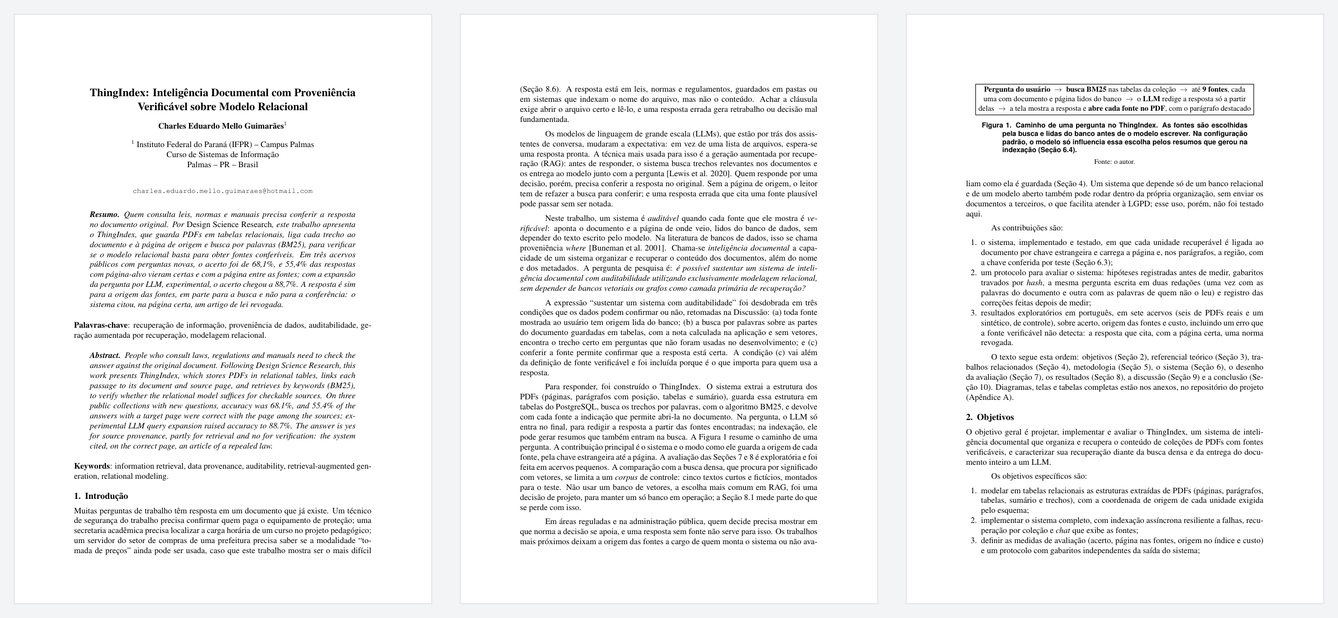
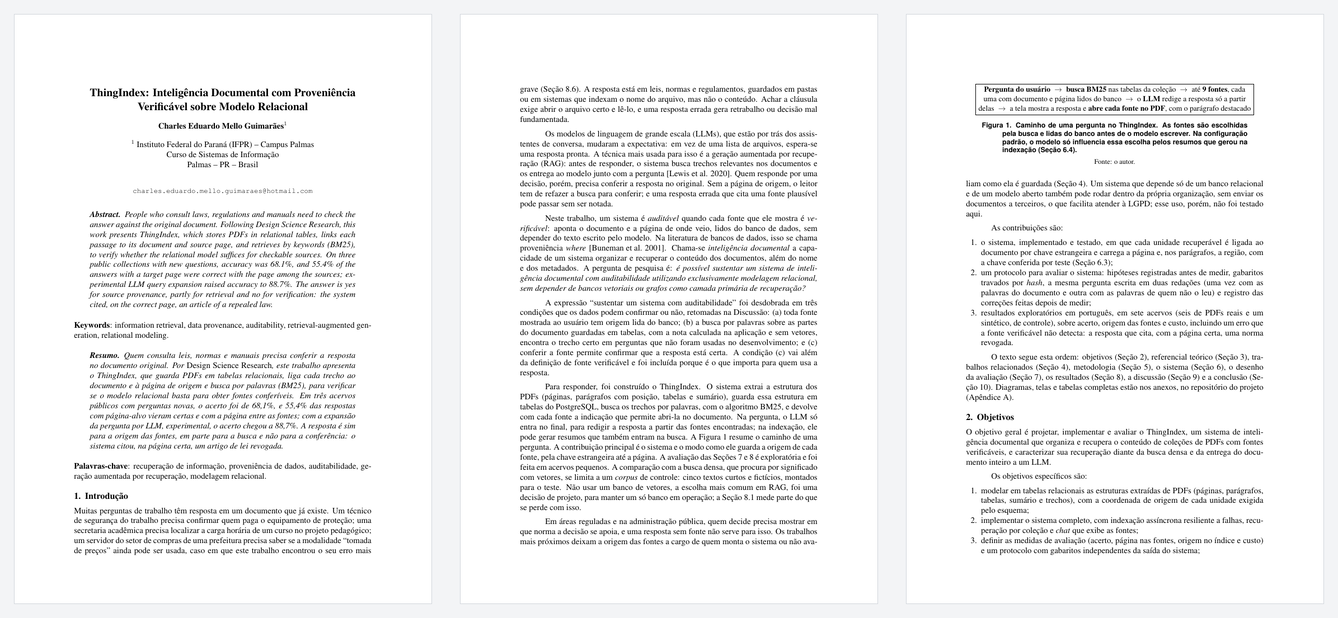
docs(artigo): abstract antes do resumo, como no modelo da SBC, e ajustes de clareza
Corrige a introducao, que chamava a tomada de precos de caso mais dificil
(e o erro mais grave; a forma mais dificil foi a premissa falsa), e deixa
mais claros a expansao desligada por padrao, os dois capitulos XVI do
edital e a origem completa em C1. No README, o modelo influencia a busca
pelos resumos da indexacao.

Changed region(s): [[0.0613, 0.3382, 0.2758, 0.7994], [0.3984, 0.123, 0.6129, 0.1845], [0.0613, 0.8608, 0.2758, 0.9223]]

diff --git a/docs/article/artigo.tex b/docs/article/artigo.tex
@@ -98,19 +98,19 @@
 
 \maketitle
 
-\selectlanguage{brazil}
-\begin{resumo}
-Quem consulta leis, normas e manuais precisa conferir a resposta no documento original. Por \emph{Design Science Research}, este trabalho apresenta o ThingIndex, que guarda PDFs em tabelas relacionais, liga cada trecho ao documento e à página de origem e busca por palavras (BM25), para verificar se o modelo relacional basta para obter fontes conferíveis. Em três acervos públicos com perguntas novas, o acerto foi de 68,1\%, e 55,4\% das respostas com página-alvo vieram certas e com a página entre as fontes; com a expansão da pergunta por LLM, experimental, o acerto chegou a 88,7\%. A resposta é sim para a origem das fontes, em parte para a busca e não para a conferência: o sistema citou, na página certa, um artigo de lei revogada.
-\end{resumo}
-
-\noindent\textbf{Palavras-chave}: recuperação de informação, proveniência de dados, auditabilidade, geração aumentada por recuperação, modelagem relacional.
-
 \selectlanguage{english}
 \begin{abstract}
 People who consult laws, regulations and manuals need to check the answer against the original document. Following Design Science Research, this work presents ThingIndex, which stores PDFs in relational tables, links each passage to its document and source page, and retrieves by keywords (BM25), to verify whether the relational model suffices for checkable sources. On three public collections with new questions, accuracy was 68.1\%, and 55.4\% of the answers with a target page were correct with the page among the sources; experimental LLM query expansion raised accuracy to 88.7\%. The answer is yes for source provenance, partly for retrieval and no for verification: the system cited, on the correct page, an article of a repealed law.
 \end{abstract}
 
 \noindent\textbf{Keywords}: information retrieval, data provenance, auditability, retrieval-augmented generation, relational modeling.
+
+\selectlanguage{brazil}
+\begin{resumo}
+Quem consulta leis, normas e manuais precisa conferir a resposta no documento original. Por \emph{Design Science Research}, este trabalho apresenta o ThingIndex, que guarda PDFs em tabelas relacionais, liga cada trecho ao documento e à página de origem e busca por palavras (BM25), para verificar se o modelo relacional basta para obter fontes conferíveis. Em três acervos públicos com perguntas novas, o acerto foi de 68,1\%, e 55,4\% das respostas com página-alvo vieram certas e com a página entre as fontes; com a expansão da pergunta por LLM, experimental, o acerto chegou a 88,7\%. A resposta é sim para a origem das fontes, em parte para a busca e não para a conferência: o sistema citou, na página certa, um artigo de lei revogada.
+\end{resumo}
+
+\noindent\textbf{Palavras-chave}: recuperação de informação, proveniência de dados, auditabilidade, geração aumentada por recuperação, modelagem relacional.
 
 \selectlanguage{brazil}
 
@@ -120,7 +120,7 @@ People who consult laws, regulations and manuals need to check the answer agains
 \section{Introdução}
 \label{sec:introducao}
 
-Muitas perguntas de trabalho têm resposta em um documento que já existe. Um técnico de segurança do trabalho precisa confirmar quem paga o equipamento de proteção; uma secretaria acadêmica precisa localizar a carga horária de um curso no projeto pedagógico; um servidor do setor de compras de uma prefeitura precisa saber se a modalidade ``tomada de preços'' ainda pode ser usada, caso que este trabalho mostra ser o mais difícil (Seção~\ref{sec:res-legislacao}). A resposta está em leis, normas e regulamentos, guardados em pastas ou em sistemas que indexam o nome do arquivo, mas não o conteúdo. Achar a cláusula exige abrir o arquivo certo e lê-lo, e uma resposta errada gera retrabalho ou decisão mal fundamentada.
+Muitas perguntas de trabalho têm resposta em um documento que já existe. Um técnico de segurança do trabalho precisa confirmar quem paga o equipamento de proteção; uma secretaria acadêmica precisa localizar a carga horária de um curso no projeto pedagógico; um servidor do setor de compras de uma prefeitura precisa saber se a modalidade ``tomada de preços'' ainda pode ser usada, caso em que este trabalho encontrou o seu erro mais grave (Seção~\ref{sec:res-legislacao}). A resposta está em leis, normas e regulamentos, guardados em pastas ou em sistemas que indexam o nome do arquivo, mas não o conteúdo. Achar a cláusula exige abrir o arquivo certo e lê-lo, e uma resposta errada gera retrabalho ou decisão mal fundamentada.
 
 Os modelos de linguagem de grande escala (LLMs), que estão por trás dos assistentes de conversa, mudaram a expectativa: em vez de uma lista de arquivos, espera-se uma resposta pronta. A técnica mais usada para isso é a geração aumentada por recuperação (RAG): antes de responder, o sistema busca trechos relevantes nos documentos e os entrega ao modelo junto com a pergunta~\cite{lewis2020rag}. Quem responde por uma decisão, porém, precisa conferir a resposta no original. Sem a página de origem, o leitor tem de refazer a busca para conferir; e uma resposta errada que cita uma fonte plausível pode passar sem ser notada.
 
@@ -398,9 +398,9 @@ Segundo, as unidades recebem nota por BM25 ($k_1 = 1{,}2$; $b = 0{,}75$), com ac
 
 Terceiro, o sistema seleciona até três linhas de tabela e até seis fontes entre seções e páginas, com no máximo três seções, isto é, até nove fontes por resposta. A nota dos trechos não gera fonte: ela só ajuda a escolher o documento. Empates na nota são desfeitos pelo documento e, dentro dele, pelo número da página ou pelo identificador da seção, e as linhas de tabela empatadas mantêm a ordem de leitura; assim, a ordem é sempre a mesma para o mesmo índice. Por fim, as fontes são reordenadas pelo número de termos da pergunta que cada uma contém, mantendo a ordem anterior nos empates; uma linha de tabela só fica na frente quando contém pelo menos metade desses termos.
 
-O banco guarda as unidades e a origem de cada uma; a nota BM25 é calculada pela API, a cada pergunta, sobre as unidades carregadas, sem um índice de busca guardado à parte. O índice de texto do próprio PostgreSQL não foi usado para a nota: sua função de ordenação, o \texttt{ts\_rank}, não considera a raridade da palavra na coleção, que é parte do BM25. O tempo de cálculo cresce com o tamanho da coleção e não foi medido em separado; nas coleções usadas, de até 10 documentos, ele não impediu os experimentos. Para acervos maiores, o índice de texto do próprio PostgreSQL fica como trabalho futuro.
+O banco guarda as unidades e a origem de cada uma; a nota BM25 é calculada pela API, a cada pergunta, sobre as unidades carregadas, sem um índice de busca guardado à parte. O índice de texto do próprio PostgreSQL não foi usado para a nota: sua função de ordenação, o \texttt{ts\_rank}, não considera a raridade da palavra na coleção, que é parte do BM25. O tempo de cálculo cresce com o tamanho da coleção e não foi medido em separado; nas coleções usadas, de até 10 documentos, ele não impediu os experimentos. Para acervos maiores, fica como trabalho futuro usar o índice de texto do PostgreSQL para filtrar os candidatos, mantendo o BM25 na nota.
 
-As fontes selecionadas são enviadas à tela antes da resposta e, em seguida, entram no \emph{prompt} do modelo, com a instrução de responder apenas a partir delas e de dizer quando a informação não consta. De cada fonte, vai ao modelo a linha de tabela ou o texto da página, cortado em 4.000 caracteres, até um total de 24.000 caracteres; as fontes que passam desse total entram só com um trecho de 220 caracteres. Além das fontes, o \emph{prompt} leva uma lista de até seis documentos da coleção, com o resumo de cada um gerado na indexação, e as últimas mensagens da conversa, quando a tela as envia (nos experimentos, cada pergunta abriu uma conversa nova). Esse conteúdo não é fonte e não aparece como tal na tela. A expansão da pergunta (experimental; Seção~\ref{sec:res-expansao}) também existe no código.
+As fontes selecionadas são enviadas à tela antes da resposta e, em seguida, entram no \emph{prompt} do modelo, com a instrução de responder apenas a partir delas e de dizer quando a informação não consta. De cada fonte, vai ao modelo a linha de tabela ou o texto da página, cortado em 4.000 caracteres, até um total de 24.000 caracteres; as fontes que passam desse total entram só com um trecho de 220 caracteres. Além das fontes, o \emph{prompt} leva uma lista de até seis documentos da coleção, com o resumo de cada um gerado na indexação, e as últimas mensagens da conversa, quando a tela as envia (nos experimentos, cada pergunta abriu uma conversa nova). Esse conteúdo não é fonte e não aparece como tal na tela. A expansão da pergunta (Seção~\ref{sec:res-expansao}) existe no código, mas fica desligada por padrão e só foi ligada no experimento daquela seção.
 
 \subsection{Interface}
 \label{sec:interface}
@@ -539,7 +539,7 @@ Cada método de C1 foi executado 30 vezes: a contagem, o BM25, a combinação do
 \subsection{Origem das fontes no índice}
 \label{sec:res-auditabilidade}
 
-Na versão atual, as 155 unidades indexadas de C1 têm a origem completa. A primeira medição deu 51 de 155. A correção do sistema, que deu coluna de página aos trechos, levou a 70; a maior parte da diferença veio de ajustar a métrica, pois as 85 unidades de metadados, que descrevem o documento inteiro e não têm página, passaram a contar como origem completa. Os números estão no Anexo~A7, em porcentagem, e nas tabelas de apoio do Apêndice~A, em contagem. Como C1 não tem paginação, toda unidade fica na página 1: a medida mostra que a origem está gravada, não que a página esteja certa, o que é conferido por testes unitários e, indiretamente, pela página entre as fontes nas seções seguintes. Os 20 parágrafos extraídos de C1 aparecem, letra por letra, no documento de origem.
+Na versão atual, as 155 unidades indexadas de C1 têm a origem completa. A primeira medição deu 51 de 155. Dar coluna de página aos trechos levou a 70. As outras 85 vieram de ajustar a métrica: as unidades de metadados, que descrevem o documento inteiro e não têm página, passaram a contar como origem completa. Os números estão no Anexo~A7, em porcentagem, e nas tabelas de apoio do Apêndice~A, em contagem. Como C1 não tem paginação, toda unidade fica na página 1: a medida mostra que a origem está gravada, não que a página esteja certa, o que é conferido por testes unitários e, indiretamente, pela página entre as fontes nas seções seguintes. Os 20 parágrafos extraídos de C1 aparecem, letra por letra, no documento de origem.
 
 \subsection{Trechos recuperados contra documento inteiro}
 \label{sec:res-geracao}
@@ -601,12 +601,12 @@ Perguntas certas nas três repetições & 48 de 71 & 63 de 71 \\
 \fonte
 \end{table}
 
-O controle é a execução anterior da bateria, no mesmo dia, sem sorteio entre as condições, e a versão do modelo no provedor não foi fixada, de modo que pode ter mudado entre as duas. Os três acervos são documentos públicos, que o modelo provavelmente viu no treinamento: o termo ``empregador'', gerado para a pergunta sobre quem paga o equipamento, já é a própria resposta, então parte do ganho pode vir do que o modelo já sabia, e o ganho não pode ser estendido a documentos internos de uma organização. Também não houve comparação com expansão sem LLM nem com busca híbrida. Como a primeira ocorrência de cada pergunta depende do modelo, a expansão ficou desligada por padrão; a partir da segunda, o resultado sai de um \emph{cache} e a busca volta a ser determinística. Por isso, as três repetições usaram a mesma expansão e medem a variação da resposta, não a da expansão.
+O controle é a execução anterior da bateria, no mesmo dia, sem sorteio entre as condições, e a versão do modelo no provedor não foi fixada, de modo que pode ter mudado entre as duas. Os três acervos são documentos públicos, que o modelo provavelmente viu no treinamento: o termo ``empregador'', gerado para a pergunta sobre quem paga o equipamento, já é a própria resposta, então parte do ganho pode vir do que o modelo já sabia, e o ganho não pode ser estendido a documentos internos de uma organização. Também não houve comparação com expansão sem LLM nem com busca híbrida. Na primeira vez que uma pergunta é feita, os termos da expansão dependem do modelo, e a busca deixa de ser determinística; por isso a expansão vem desligada por padrão. Da segunda vez em diante, os termos saem de um \emph{cache}. Por isso, as três repetições usaram a mesma expansão e medem a variação da resposta, não a da expansão.
 
 \subsection{Edital municipal (exploratório)}
 \label{sec:res-prefeitura}
 
-O sistema também foi aplicado ao edital de 52 páginas de um concurso público municipal, com 18 perguntas em nove pares de literal e paráfrase, e acertou 15 de 18. As duas versões da pergunta que pede o total de vagas, somando uma tabela de três páginas, erraram: a busca trouxe só parte das páginas, e o modelo somou o que viu na versão literal e disse não ser possível calcular na paráfrase. Isso decorre do número fixo de fontes por resposta (Seção~\ref{sec:recuperacao}). A terceira falha foi de busca: a pergunta pelo ``Capítulo XVI'' não trouxe a página do capítulo. Ao escolher as fontes, o sistema trata numerais romanos e a palavra ``capítulo'' como numeração de título e os descarta, e a pergunta ficou sem termo que distinguisse a página. O próprio edital tem dois capítulos numerados XVI, na mesma página.
+O sistema também foi aplicado ao edital de 52 páginas de um concurso público municipal, com 18 perguntas em nove pares de literal e paráfrase, e acertou 15 de 18. As duas versões da pergunta que pede o total de vagas, somando uma tabela de três páginas, erraram: a busca trouxe só parte das páginas, e o modelo somou o que viu na versão literal e disse não ser possível calcular na paráfrase. Isso decorre do número fixo de fontes por resposta (Seção~\ref{sec:recuperacao}). A terceira falha foi de busca: a pergunta pelo ``Capítulo XVI'' não trouxe a página do capítulo. Ao escolher as fontes, o sistema trata numerais romanos e a palavra ``capítulo'' como numeração de título e os descarta, e a pergunta ficou sem termo que distinguisse a página. Além disso, o edital numera dois capítulos como XVI, na mesma página, o que deixaria a pergunta ambígua mesmo sem esse descarte.
 
 % =============================================================================
 % 9. DISCUSSAO

diff --git a/scripts/check-article-numbers.py b/scripts/check-article-numbers.py
@@ -343,9 +343,8 @@ def origem_c1() -> dict[str, str]:
         # redefinicao da metrica (metadados do documento inteiro), de 70 a 155.
         "origem C1 (resumo)": (f"Sim: o documento é exigido pelo esquema, e a página, gravada na indexação; em C1 (sem páginas), {completos} de {total}, "
                                f"{tipo['Metadado']} delas metadados"),
-        "origem C1, correcao do sistema": (f"que deu coluna de página aos trechos, levou a {primeira + tipo['Trecho']}; "
-                                           "a maior parte da diferença veio de ajustar a métrica"
-                                           if tipo["Metadado"] > tipo["Trecho"] else "<a correcao do sistema passou a ser a maior parte>"),
+        "origem C1, correcao do sistema": (f"Dar coluna de página aos trechos levou a {primeira + tipo['Trecho']}. "
+                                           f"As outras {tipo['Metadado']} vieram de ajustar a métrica"),
         "origem C1, versao atual": (f"Na versão atual, as {total} unidades indexadas de C1 têm a origem completa"
                                     if completos == total else "<nem todas as unidades de C1 tem origem completa>"),
         "origem C1, primeira medicao": f"A primeira medição deu {primeira} de {total}",

diff --git a/README.md b/README.md
@@ -25,7 +25,7 @@ próprio PDF.
 
 Cada parte do documento (página, parágrafo, linha de tabela, seção do sumário) é uma linha
 de tabela no PostgreSQL, ligada ao documento por chave estrangeira e com a página de origem.
-A busca é por palavras (BM25), sem banco vetorial. O LLM só entra no fim, para redigir a
+A busca é por palavras (BM25), sem banco vetorial. Na pergunta, o LLM só entra no fim, para redigir a
 resposta a partir das fontes que a busca escolheu. Por isso a página mostrada ao usuário vem
 do banco, e não do texto escrito pelo modelo.
 
@@ -145,7 +145,7 @@ flowchart LR
     L --> T(["Tela abre cada fonte no PDF<br/>com o parágrafo destacado"])
 ```
 
-O modelo não escolhe as fontes: elas vêm da busca e do banco antes de ele escrever.
+O modelo não escolhe as fontes: elas vêm da busca e do banco antes de ele escrever. Na configuração padrão, ele só influencia a busca pelos resumos que gerou na indexação.
 
 ```mermaid
 flowchart LR
